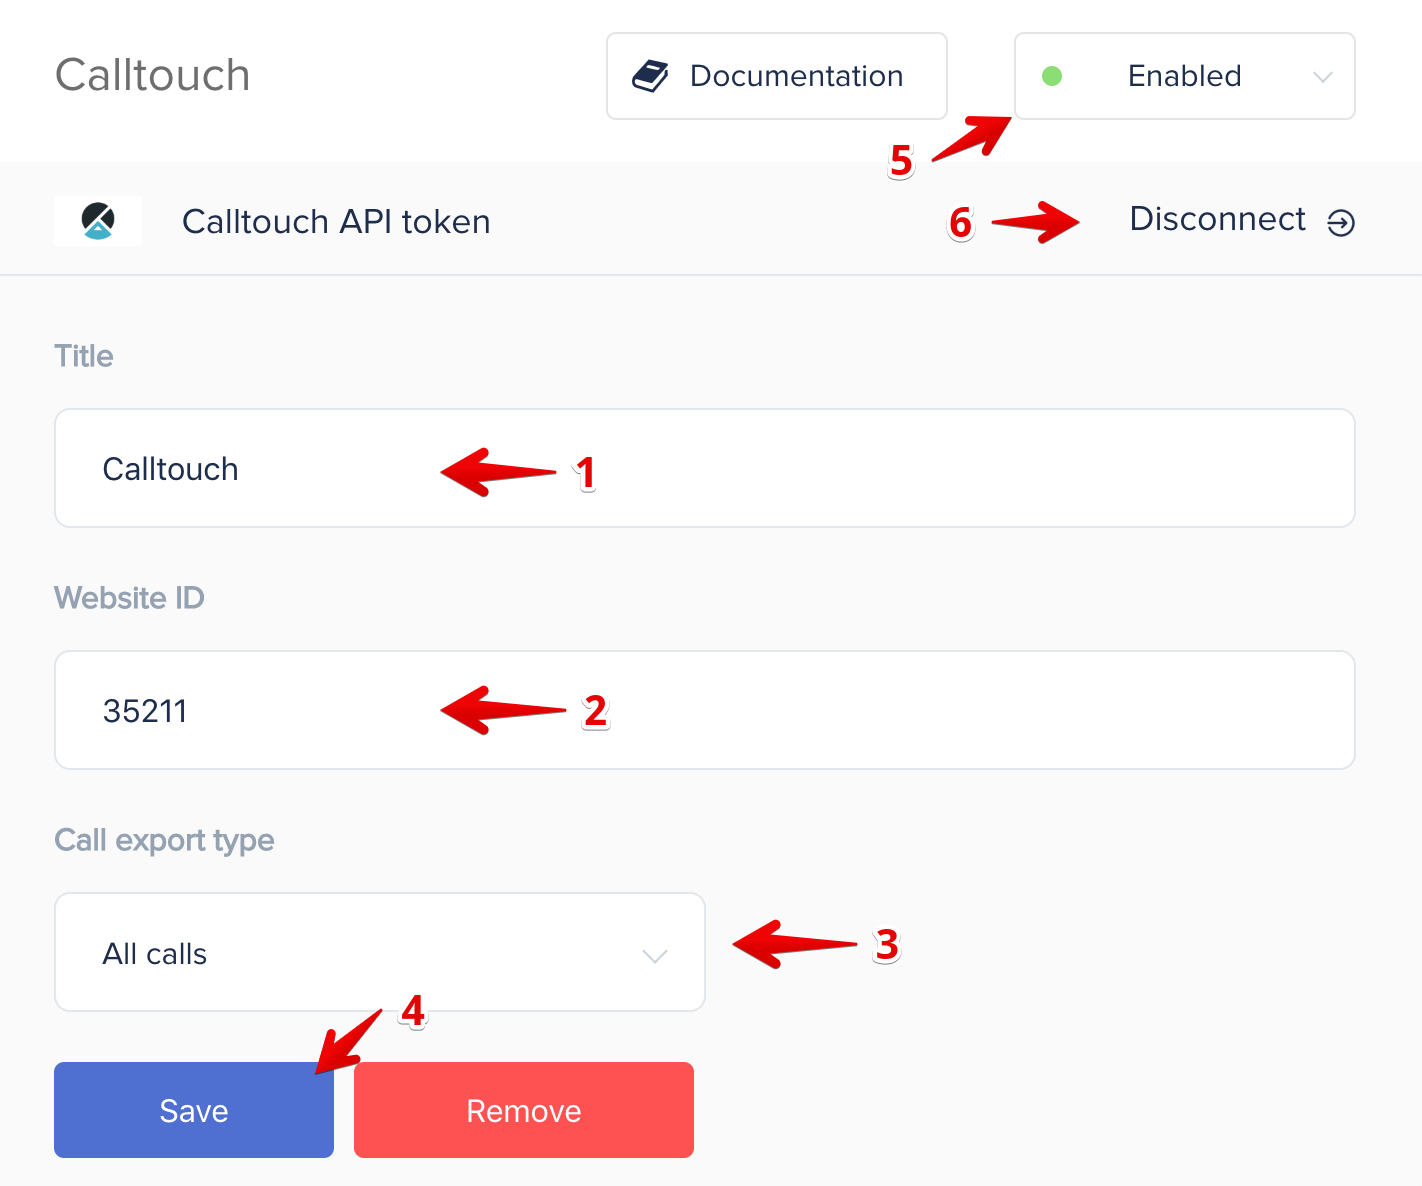
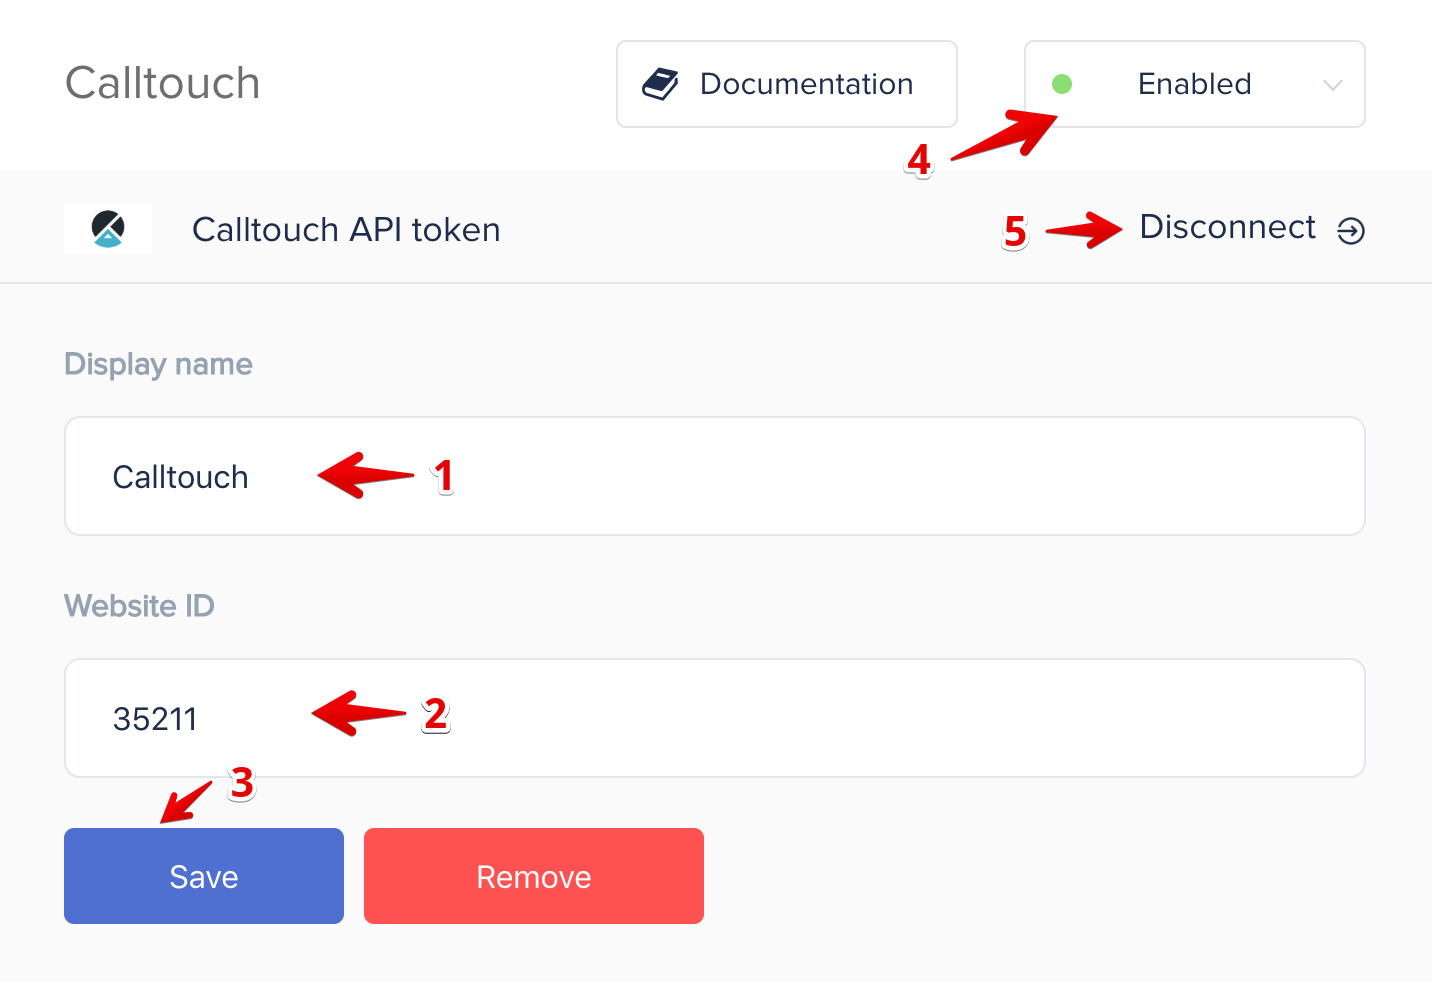
Update Calltouch docs

diff --git a/_docs/datasources/calltouch.md b/_docs/datasources/calltouch.md
@@ -35,18 +35,11 @@ After authorization you need to set the data source parameters.
 
 (2) Website ID from Calltouch dashboard.
 
-(3) Call export type indicates which calls should be exported.
+To save and enable the data source, click "Save" (3).
 
-It can be one of the following values:
-- All calls - Import all calls
-- Unique calls - Import only unique calls
-- Repeated calls - Import only non-unique calls
+The "Disconnect" button (5) is used to revoke the authorization data. The settings are saved.
 
-To save and enable the data source, click "Save" (4).
-
-The "Disconnect" button (6) is used to revoke the authorization data. The settings are saved.
-
-You can enable or disable the data source at any time (5).
+You can enable or disable the data source at any time (4).
 
 ### Where to get data on Calltouch calls
 
